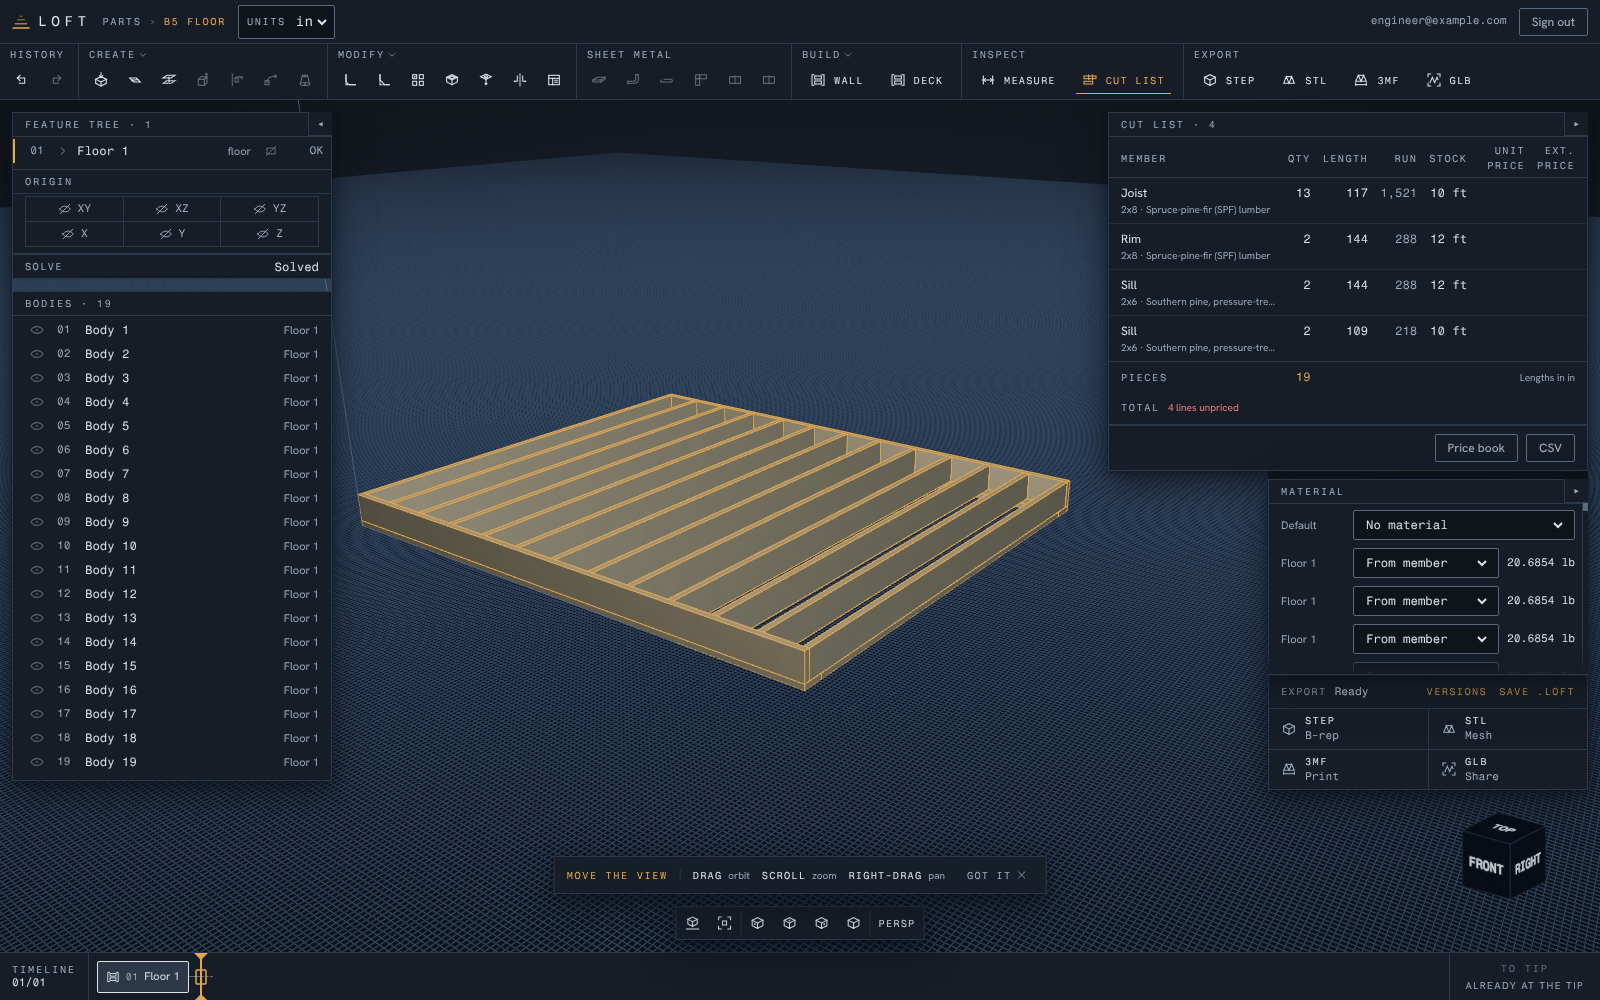
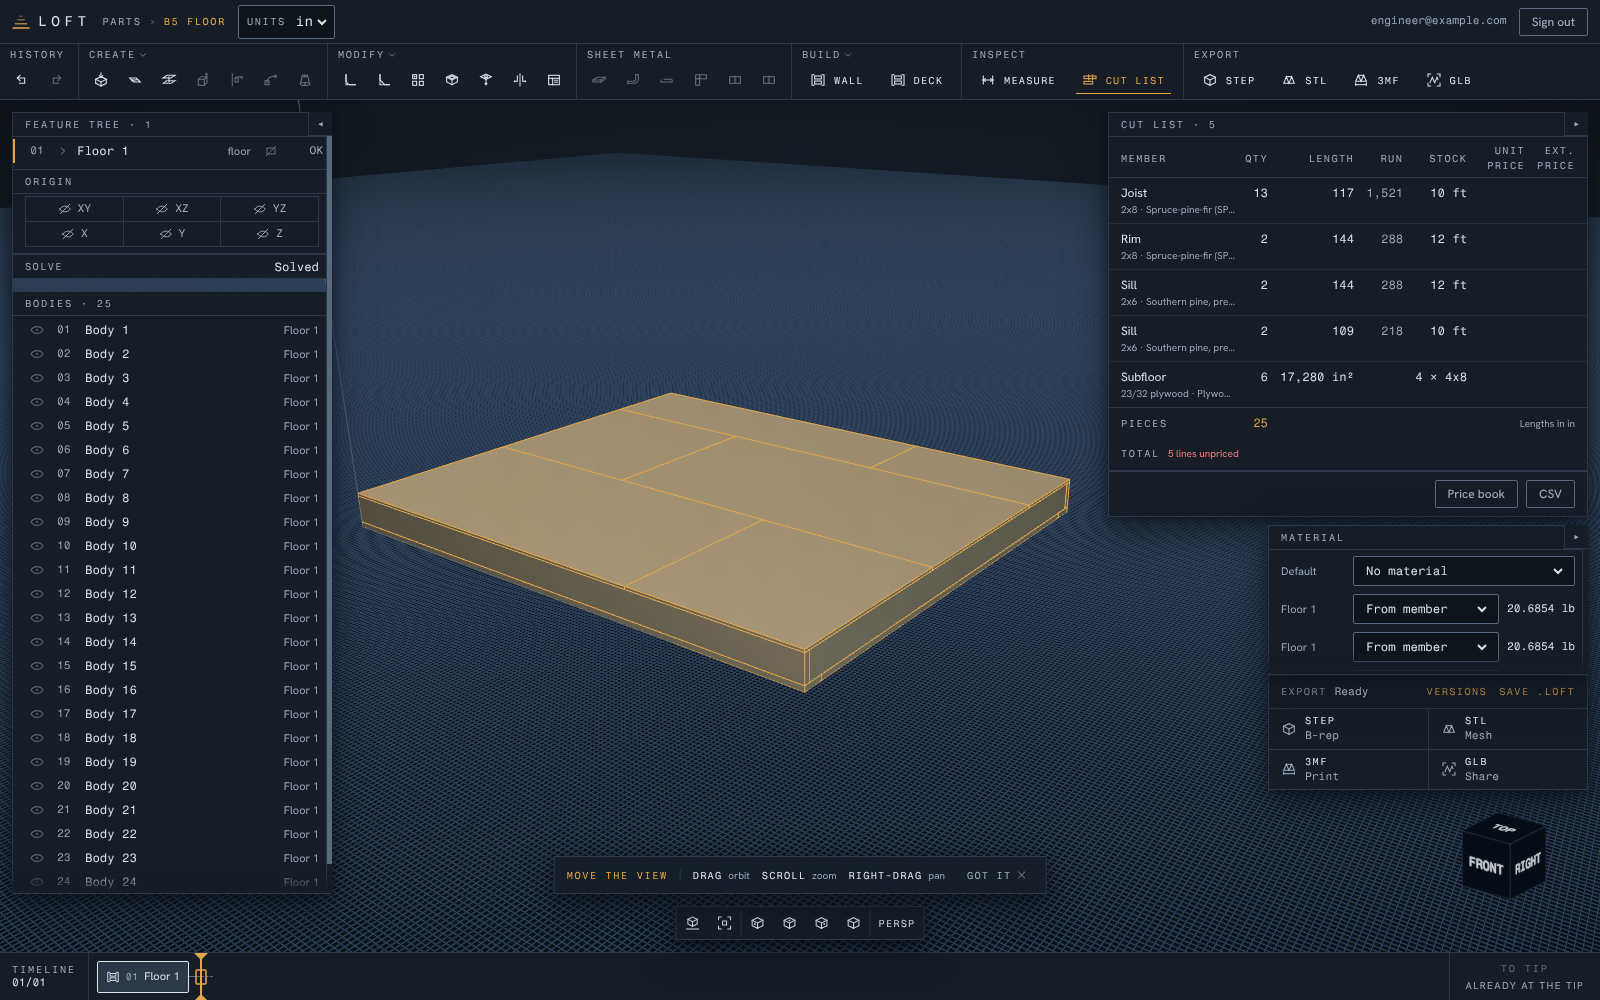
test(web): sheathing e2e — a Wall in OSB buys 3 sheets of 4x9 at $74.94 (SHEATHING)
- sheathing.spec.ts: a 144 in Wall from Build with 7/16 OSB lists Sheathing
  3, 13,986 in², 3 × 4x9; its blank price opens the book on a per-sheet row
  (4x9, Each) and $24.98 extends to $74.94, stored at version 1. A Floor at
  its defaults has its subfloor: 6 panels, 17,280 in², 4 × 4x8.
- floor-b5.spec.ts: the default floor (loft.floor 1.1.0) now lists its
  Subfloor line, 22 pieces (25 at 12 in o.c.).
- The cut list keeps a sheet line's area and sheet count on one line, and
  the dialog's Profile column fits "23/32 plywood"; sheets read "4x9".
- Screenshots: sheathing-wall, sheathing-floor, sheathing-price-book,
  price-book-stale (the two-tab 412), and floor-b5 / price-book-dialog
  retaken.

Claude-Session: https://claude.ai/code/session_0187m1Up5oMSqhzNuRp9tgBJ

diff --git a/apps/web/e2e/sheathing.spec.ts b/apps/web/e2e/sheathing.spec.ts
@@ -1,0 +1,158 @@
+import {
+  type CutRow,
+  expectSolved,
+  expectTable,
+  openBuildTool,
+  openCutList,
+} from "./buildFlow";
+import { expect, test } from "./fixtures";
+import { SCREENSHOT_DIR, seedSession } from "./support";
+
+/**
+ * SHEATHING: sheet goods as options on the Wall and the Floor, counted by
+ * area and priced per sheet (docs/BACKLOG.md SHEATHING).
+ *
+ *  - A 144 in Wall from Build ▾ with Exterior sheathing 7/16 OSB lists 3
+ *    panels (13 986 in², 97.125 tall) as 3 sheets of 4x9; pricing the blank
+ *    through the dialog at $24.98 per 4x9 sheet extends to $74.94.
+ *  - A Floor from Build ▾ at its defaults has the 23/32 plywood subfloor:
+ *    6 panels, 17 280 in², 4 sheets of 4x8 (3.75 by area).
+ */
+
+/** The default 144 wall's framing (wall-b2's list) and its OSB. */
+const WALL_OSB: CutRow[] = [
+  ["Stud", "10", "92.625", "8 ft"],
+  ["Top plate", "2", "144", "12 ft"],
+  ["Bottom plate", "1", "144", "12 ft"],
+  ["Sheathing", "3", "13,986 in²", "3 × 4x9"],
+];
+
+/** B5's floor (floor-b5's list) and its subfloor. */
+const FLOOR_SUBFLOOR: CutRow[] = [
+  ["Joist", "10", "117", "10 ft"],
+  ["Rim", "2", "144", "12 ft"],
+  ["Sill", "2", "144", "12 ft"],
+  ["Sill", "2", "109", "10 ft"],
+  ["Subfloor", "6", "17,280 in²", "4 × 4x8"],
+];
+
+async function inchPart(
+  page: import("@playwright/test").Page,
+  token: string,
+  name: string,
+): Promise<string> {
+  const created = await page.request.post("/api/v1/parts", {
+    data: { name, length_unit: "in" },
+    headers: { Authorization: `Bearer ${token}` },
+  });
+  expect(created.ok(), await created.text()).toBe(true);
+  return ((await created.json()) as { id: string }).id;
+}
+
+test.describe("Sheathing — sheet goods on the Wall and the Floor", () => {
+  test.use({ viewport: { width: 1600, height: 1000 } });
+
+  test("a Wall with OSB lists 3 sheets of 4x9, priced $74.94 per the book", async ({
+    page,
+  }) => {
+    test.setTimeout(240_000);
+    const account = await seedSession(page);
+    const partId = await inchPart(page, account.token, "Sheathed wall");
+    await page.goto(`/parts/${partId}`);
+    await expect(page.getByTestId("feature-row")).toHaveCount(0);
+
+    await openBuildTool(page, "loft.wall", "Wall");
+    const editor = page.getByTestId("plugin-editor");
+    await expect(page.getByTestId("plugin-input-length_mm")).toHaveValue("144");
+    const sheathing = page.getByTestId("plugin-input-sheathing");
+    await expect(sheathing).toHaveValue("none");
+    await sheathing.selectOption("osb_7_16");
+    await page.getByTestId("plugin-submit").click();
+    await expect(editor).toBeHidden({ timeout: 30_000 });
+    await expectSolved(page);
+
+    await openCutList(page);
+    await expectTable(page, WALL_OSB, "16");
+    const panel = page.getByTestId("cut-list-panel");
+    const osb = panel.locator(
+      '[data-testid="cut-list-row"][data-member="Sheathing"]',
+    );
+    await expect(osb).toHaveAttribute("data-sheet", "4x9");
+    await expect(osb.getByTestId("cut-list-caption")).toContainText("7/16 OSB");
+
+    // Its blank price opens the book on a per-sheet row for a 4x9 sheet.
+    await osb.getByTestId("cut-list-price-blank").click();
+    const dialog = page.getByRole("dialog", { name: "Price book" });
+    await expect(dialog).toBeVisible();
+    const seeded = dialog.getByTestId("price-book-row").last();
+    await expect(seeded).toHaveAttribute("data-profile", "osb_7_16");
+    await expect(seeded).toHaveAttribute("data-material", "osb");
+    await expect(seeded.getByTestId("price-book-unit-sheet")).toHaveText(
+      "Each",
+    );
+    await expect(seeded.getByTestId("price-book-sheet")).toHaveValue("4x9");
+    const field = seeded.getByTestId("price-book-price");
+    await expect(field).toBeFocused();
+    await field.fill("24.98");
+    await page.mouse.move(10, 10);
+    await page.screenshot({
+      path: `${SCREENSHOT_DIR}/sheathing-price-book.png`,
+    });
+    await field.press("Enter");
+    await expect(dialog).toBeHidden({ timeout: 15_000 });
+
+    await expect(osb.getByTestId("cut-list-unit-price")).toHaveText("$24.98");
+    await expect(osb.getByTestId("cut-list-ext-price")).toHaveText("$74.94");
+    await expect(osb.getByTestId("cut-list-unit-price")).toHaveAttribute(
+      "title",
+      "Each per 4x9 sheet",
+    );
+    await page.mouse.move(800, 990);
+    await page.screenshot({ path: `${SCREENSHOT_DIR}/sheathing-wall.png` });
+
+    // The book is stored per sheet, at version 1.
+    const book = await page.request.get("/api/v1/price-book", {
+      headers: { Authorization: `Bearer ${account.token}` },
+    });
+    const stored = (await book.json()) as {
+      version: number;
+      entries: { profile: string; sheet: string | null; price_cents: number }[];
+    };
+    expect(stored.version).toBe(1);
+    expect(stored.entries).toEqual([
+      expect.objectContaining({
+        profile: "osb_7_16",
+        sheet: "4x9",
+        price_cents: 2498,
+      }),
+    ]);
+  });
+
+  test("a Floor from Build ▾ has its 23/32 plywood subfloor: 4 sheets of 4x8", async ({
+    page,
+  }) => {
+    test.setTimeout(240_000);
+    const account = await seedSession(page);
+    const partId = await inchPart(page, account.token, "Sheathed floor");
+    await page.goto(`/parts/${partId}`);
+    await openBuildTool(page, "loft.floor", "Floor");
+    await expect(page.getByTestId("plugin-input-subfloor")).toHaveValue(
+      "plywood_23_32",
+    );
+    await page.getByTestId("plugin-submit").click();
+    await expect(page.getByTestId("plugin-editor")).toBeHidden({
+      timeout: 30_000,
+    });
+    await expectSolved(page);
+    await page.getByTestId("feature-unfold-0").click();
+    await expect(
+      page.getByTestId("feature-member-row").filter({ hasText: "Subfloor" }),
+    ).toHaveCount(6);
+    await page.getByTestId("feature-unfold-0").click();
+
+    await openCutList(page);
+    await expectTable(page, FLOOR_SUBFLOOR, "22");
+    await page.mouse.move(800, 990);
+    await page.screenshot({ path: `${SCREENSHOT_DIR}/sheathing-floor.png` });
+  });
+});

diff --git a/apps/web/e2e/floor-b5.spec.ts b/apps/web/e2e/floor-b5.spec.ts
@@ -15,6 +15,8 @@ import { SCREENSHOT_DIR, seedSession } from "./support";
  * In an inch part: Build ▾ > Floor at its defaults (144 x 120, 2x8 joists at
  * 16 in o.c. along the depth, PT 2x6 sill plates) builds 16 member bodies:
  * 10 joists, 2 rims and 4 sills, whose cut list is the spec's floor list.
+ * Since loft.floor 1.1.0 (SHEATHING) the default floor also has its 23/32
+ * plywood subfloor: 6 panels, 4 sheets of 4x8 by area.
  * Then the spec's edit, joist spacing 16 -> 12: 13 joists. A reload keeps it.
  */
 
@@ -26,6 +28,7 @@ const FLOOR_16OC: CutRow[] = [
   ["Rim", "2", "144", "12 ft"],
   ["Sill", "2", "144", "12 ft"],
   ["Sill", "2", "109", "10 ft"],
+  ["Subfloor", "6", "17,280 in²", "4 × 4x8"],
 ];
 
 /** "Joist spacing 16 -> 12. That gives 13 joists". */
@@ -74,10 +77,11 @@ test.describe("Floor — B5's framed floor from one feature", () => {
     await expect(members.filter({ hasText: "Joist" })).toHaveCount(10);
     await expect(members.filter({ hasText: "Rim" })).toHaveCount(2);
     await expect(members.filter({ hasText: "Sill" })).toHaveCount(4);
+    await expect(members.filter({ hasText: "Subfloor" })).toHaveCount(6);
     await page.getByTestId("feature-unfold-0").click();
 
     await openCutList(page);
-    await expectTable(page, FLOOR_16OC, "16");
+    await expectTable(page, FLOOR_16OC, "22");
     await expect(page.getByTestId("prop-mass")).toContainText(/\d/, {
       timeout: 60_000,
     });
@@ -93,7 +97,7 @@ test.describe("Floor — B5's framed floor from one feature", () => {
     await expect(editor).toBeHidden({ timeout: 30_000 });
     await expectSolved(page);
     await openCutList(page);
-    await expectTable(page, FLOOR_12OC, "19");
+    await expectTable(page, FLOOR_12OC, "25");
     await page.mouse.move(800, 990);
     await page.screenshot({ path: `${SCREENSHOT_DIR}/floor-b5-12oc.png` });
 
@@ -102,7 +106,7 @@ test.describe("Floor — B5's framed floor from one feature", () => {
     await expect(rows).toHaveCount(1);
     await expectSolved(page);
     await openCutList(page);
-    await expectTable(page, FLOOR_12OC, "19");
+    await expectTable(page, FLOOR_12OC, "25");
     const tree = await page.request.get(`/api/v1/parts/${partId}/features`, {
       headers: { Authorization: `Bearer ${account.token}` },
     });

diff --git a/apps/web/src/components/CutListPanel.tsx b/apps/web/src/components/CutListPanel.tsx
@@ -330,7 +330,10 @@ export function CutListPanel({
                           {area === null ? (
                             formatLength(line.length_mm, unit)
                           ) : (
-                            <span data-testid="cut-list-area">
+                            <span
+                              data-testid="cut-list-area"
+                              className="whitespace-nowrap"
+                            >
                               {formatArea(area, unit)} {unitLabel}²
                             </span>
                           )}
@@ -345,7 +348,7 @@ export function CutListPanel({
                         </td>
                         <td
                           data-testid="cut-list-stock"
-                          className={`${CELL} text-mist`}
+                          className={`${CELL} whitespace-nowrap text-mist`}
                           title={
                             sheet !== null
                               ? `${formatCount(line.stock_quantity ?? 0)} sheets of ${sheet}, by area`

diff --git a/apps/web/src/components/PriceBookDialog.tsx b/apps/web/src/components/PriceBookDialog.tsx
@@ -350,7 +350,7 @@ export function PriceBookDialog({ seed, onClose }: PriceBookDialogProps) {
   ];
   const sheetOptions = (library.data?.sheet_sizes ?? []).map((size) => ({
     value: size.key,
-    label: `${size.key} sheet`,
+    label: size.key,
   }));
   const profileName = (key: PriceProfileKey) =>
     profileOptions.find((p) => p.value === key)?.label ?? key;
@@ -434,7 +434,7 @@ export function PriceBookDialog({ seed, onClose }: PriceBookDialogProps) {
                   <th scope="col" className={HEAD}>
                     Material
                   </th>
-                  <th scope="col" className={`${HEAD} w-[96px]`}>
+                  <th scope="col" className={`${HEAD} w-[152px]`}>
                     Profile
                   </th>
                   <th scope="col" className={`${HEAD} w-[104px]`}>
